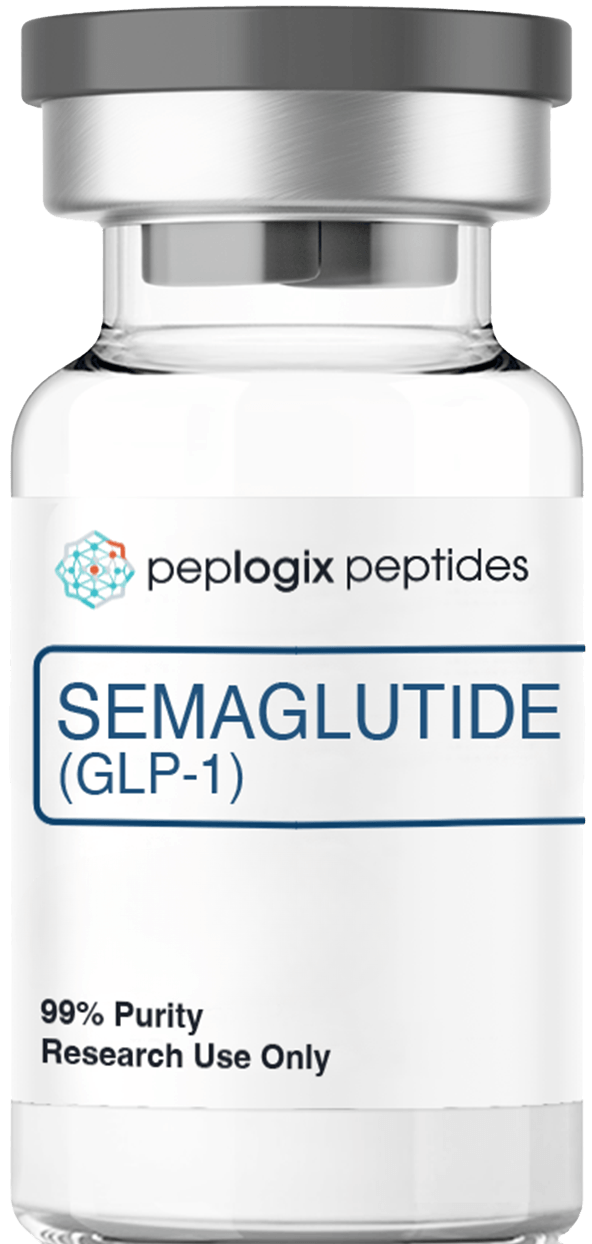
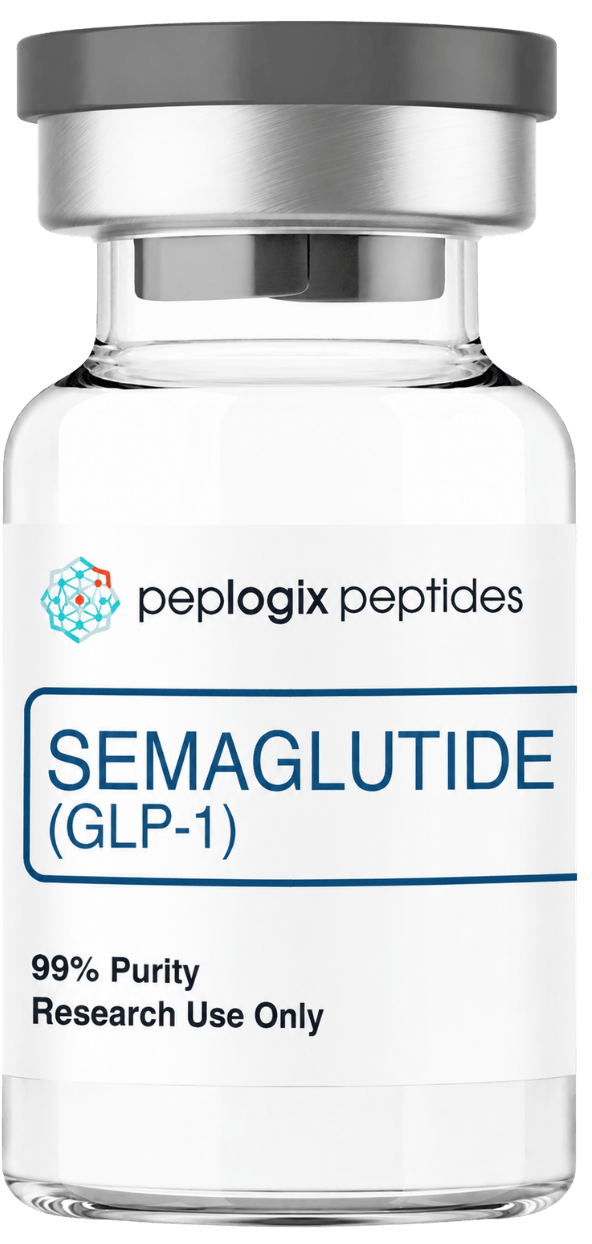
up[date

diff --git a/src/Component/ServiceDetails.jsx b/src/Component/ServiceDetails.jsx
@@ -4,11 +4,12 @@ import { Colors, Gradients } from "./ColorComponent";
 // import Heading from "./Heading";
 
 import i4 from "../Images/i4.png";
-import Sema from "../Images2026/semagl2.png";
+
 import Tirz from "../Images/tirze.png";
 import ZoomInComponent from "./ZoomInComponent";
 import WhiteStar from "./WhiteStar";
 import { Link } from "react-router-dom";
+import Semagem from "../Images2026/Semagl.png";
 const packages = [
   {
     id: 1,
@@ -19,7 +20,7 @@ const packages = [
     description:
       "Unlock the power of Semaglutide, a revolutionary GLP-1 agonist that not only aids in enhanced insulin secretion but also significantly reduces your appetite. This mechanism creates a calorie deficit, paving the way for effective weight loss. What sets our Semaglutide apart is the addition of a potent enhancer that amplifies your weight loss efforts.",
 
-    image: Sema,
+    image: Semagem,
 
     benefits: [
       "Average weight loss of 5–10 lbs per month.",
